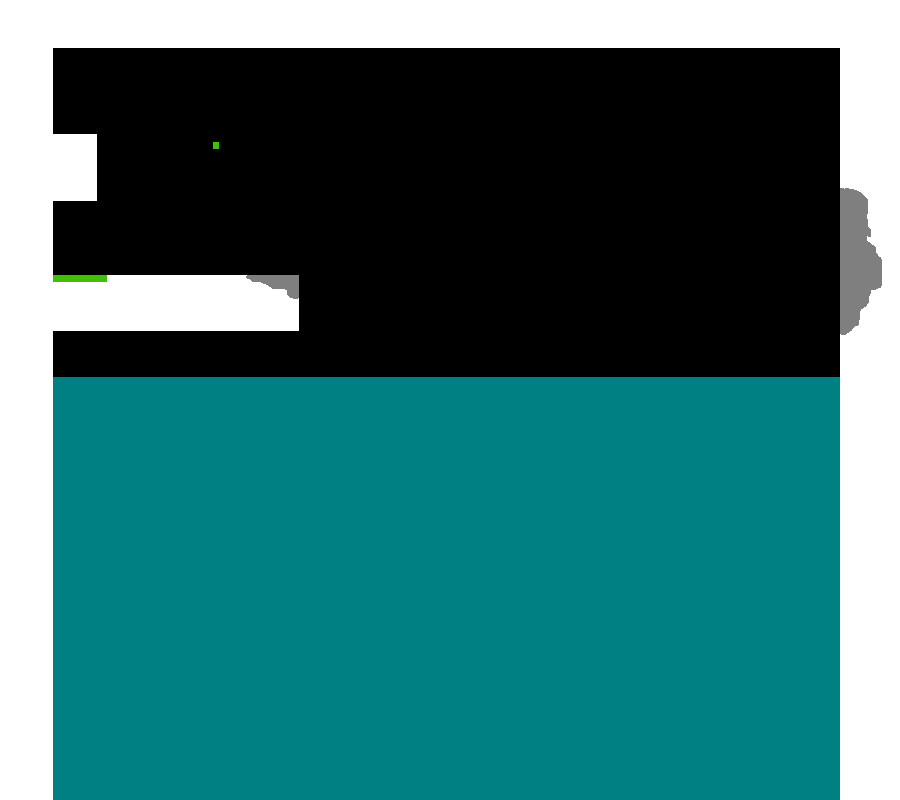
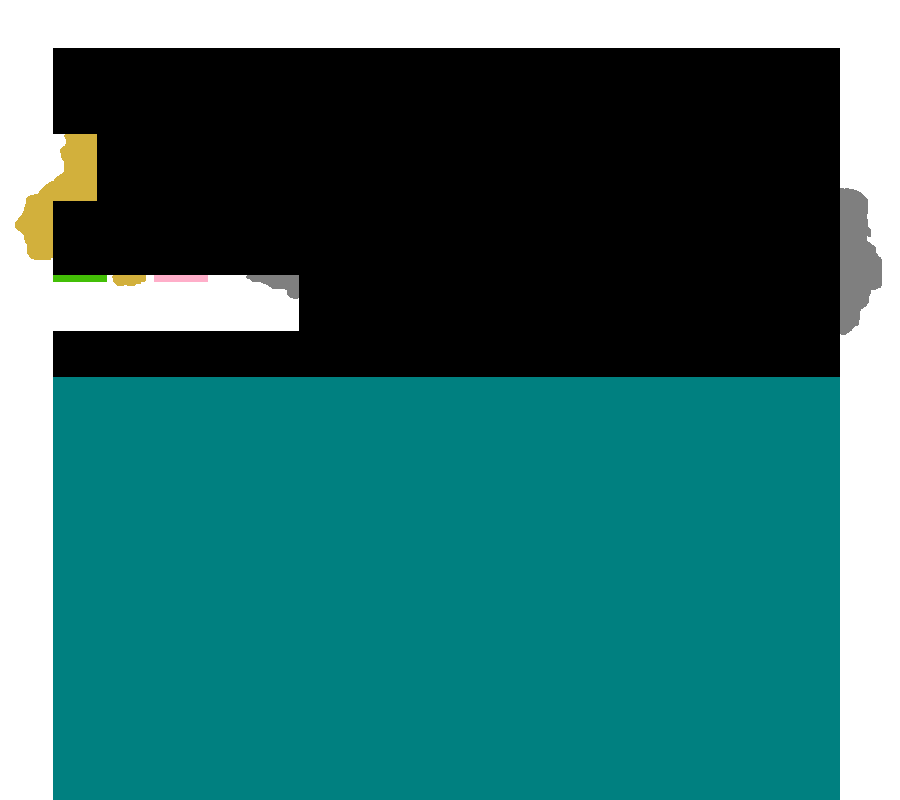
added all terrain types

Changed region(s): [[0.0, 0.1562, 0.1244, 0.3438], [0.1244, 0.3438, 0.2489, 0.375]]

diff --git a/grenadudes/terrain_entity.cpp b/grenadudes/terrain_entity.cpp
@@ -31,6 +31,10 @@ EntityTerrain::EntityTerrain(float scale, std::string filename) {
     txtWeak.setRepeated(true);
     txtBouncy.loadFromFile("data/bouncy.png");
     txtBouncy.setRepeated(true);
+    txtSlow.loadFromFile("data/slow.png");
+    txtSlow.setRepeated(true);
+    txtSticky.loadFromFile("data/sticky.png");
+    txtSlow.setRepeated(true);
     // load fragment shader
     shdTerrain.loadFromFile("data/terrain.frag", sf::Shader::Fragment);
     // notify
@@ -96,6 +100,14 @@ TerrainType EntityTerrain::get_pos(sf::Vector2f pos) {
     if (terrain[base + 0] == 67 &&
         terrain[base + 1] == 191 &&
         terrain[base + 2] == 6) return T_BOUNCY;
+
+    if (terrain[base + 0] == 210 &&
+        terrain[base + 1] == 176 &&
+        terrain[base + 2] == 60) return T_SLOW;
+
+    if (terrain[base + 0] == 255 &&
+        terrain[base + 1] == 174 &&
+        terrain[base + 2] == 201) return T_STICKY;
 
     return T_BLANK;
 }
@@ -252,6 +264,8 @@ void EntityTerrain::draw(sf::RenderWindow &window) {
     shdTerrain.setParameter("txtKill", txtWater);
     shdTerrain.setParameter("txtWeak", txtWeak);
     shdTerrain.setParameter("txtBouncy", txtBouncy);
+    shdTerrain.setParameter("txtSlow", txtSlow);
+    shdTerrain.setParameter("txtSticky", txtSticky);
     shdTerrain.setParameter("txtData", txtTerrainData);
     shdTerrain.setParameter("sizeX", (float)size.x);
     shdTerrain.setParameter("sizeY", (float)size.y);

diff --git a/grenadudes/ball_entity.cpp b/grenadudes/ball_entity.cpp
@@ -129,6 +129,8 @@ void EntityBall::tick(std::vector<Entity*> &entities) {
             if (t == T_KILL) std::cout << "kill\n";
             if (t == T_WEAK) std::cout << "weak\n";
             if (t == T_BOUNCY) std::cout << "bouncy\n";
+            if (t == T_SLOW) std::cout << "slow\n";
+            if (t == T_STICKY) std::cout << "sticky\n";
 
             float impactSpeed = util::len(velocity);
             sf::Vector2f impactDirection;

diff --git a/grenadudes/terrain_entity.h b/grenadudes/terrain_entity.h
@@ -60,5 +60,7 @@ private:
     sf::Texture txtWater;
     sf::Texture txtWeak;
     sf::Texture txtBouncy;
+    sf::Texture txtSlow;
+    sf::Texture txtSticky;
     bool render;
 };
